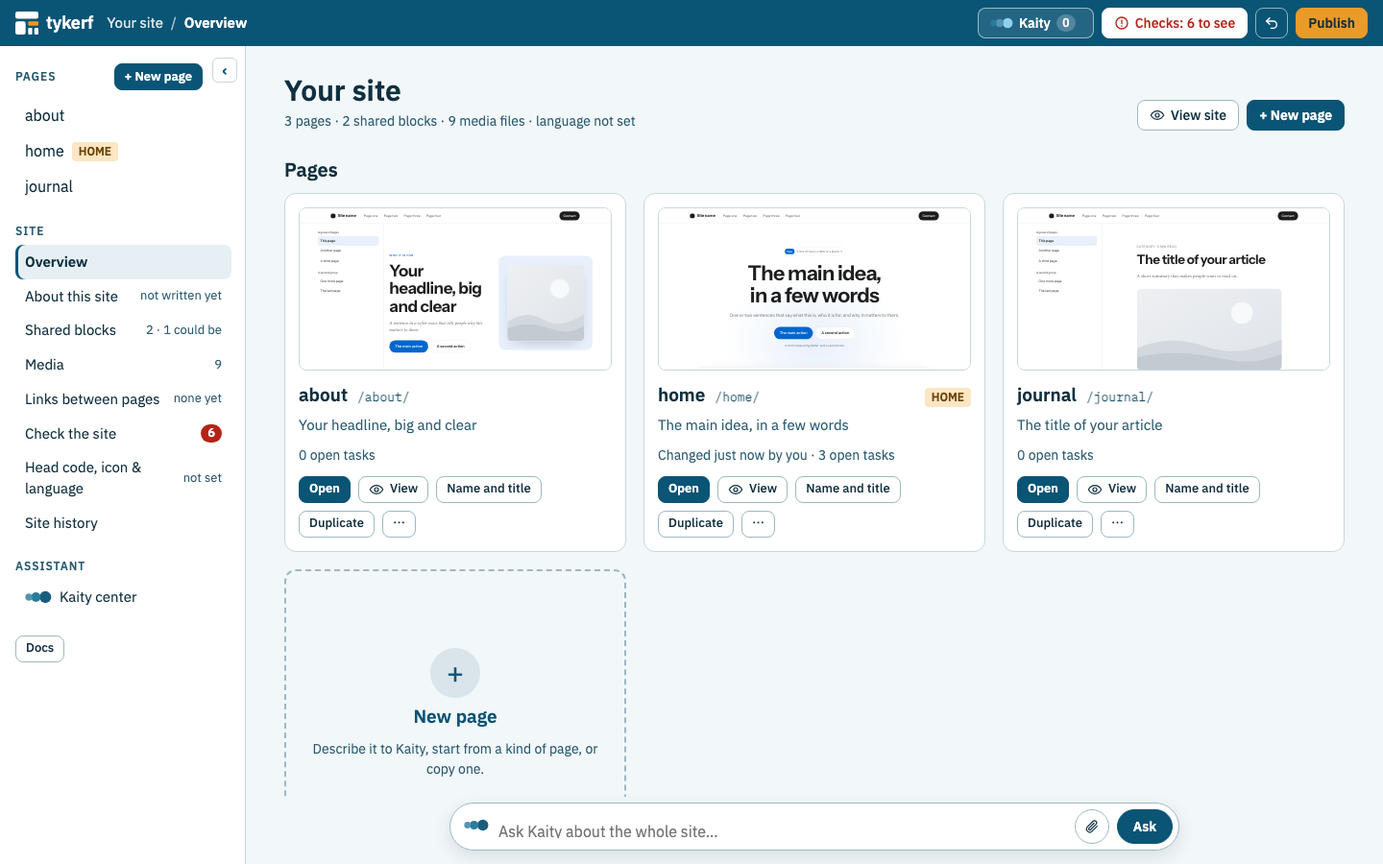
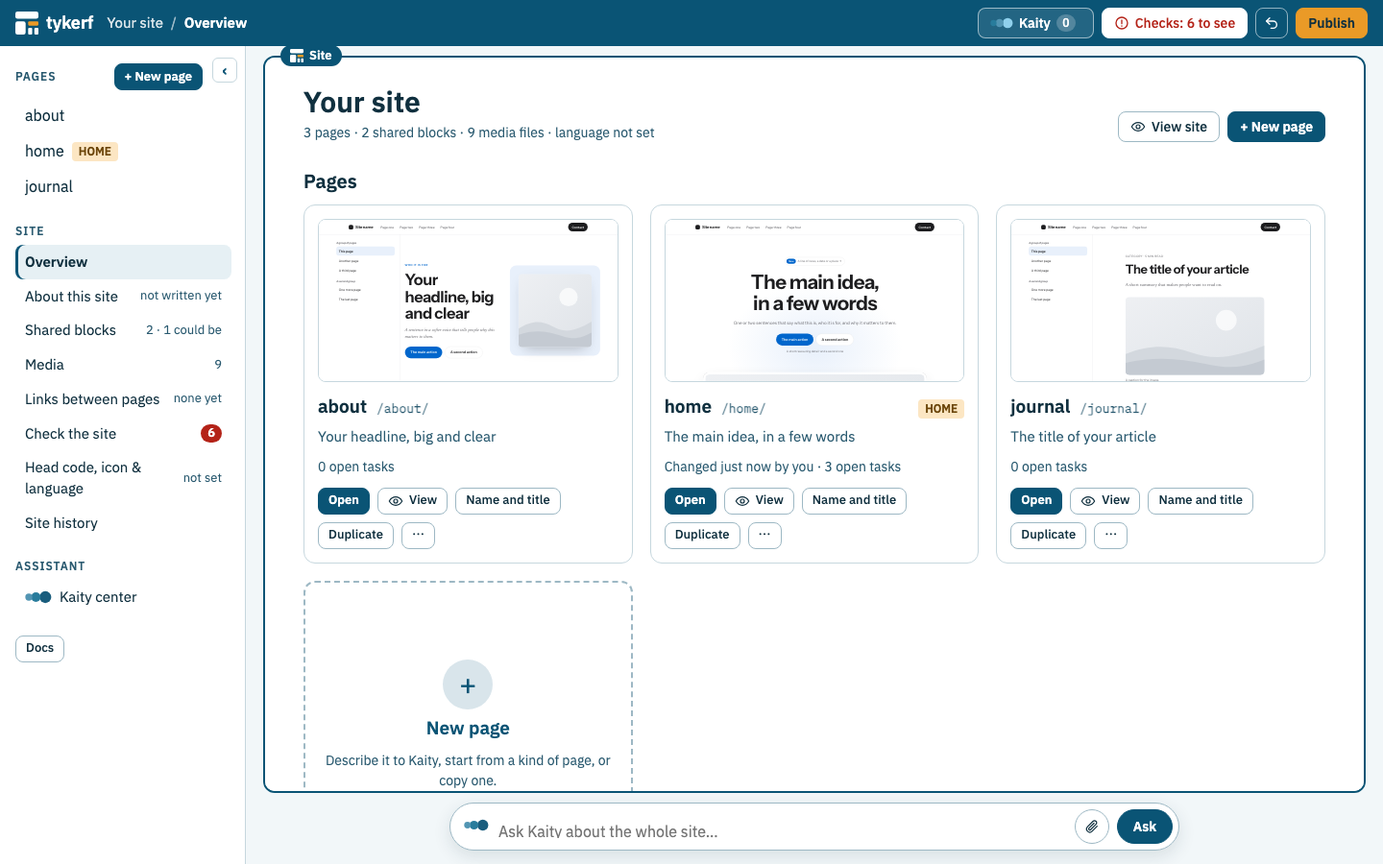
review, colour palette for modes

diff --git a/src/editor/public/shell/shell.css b/src/editor/public/shell/shell.css
@@ -13,7 +13,9 @@
   --line: #C6D7DE;
   --line-strong: #9DB8C4;
   --problem: #B42318;      /* problems, removing */
-  --task: #EA9A27;         /* tasks and Kaity: pins, numbers, the one main action */
+  --task: #EA9A27;         /* tasks and Kaity: pins, numbers, the one main action; Tasks mode */
+  --edit: #426CB2;         /* Edit mode */
+  --view: #27856B;         /* View mode (the site's screens are --bar's teal) */
   --task-ink: #10303F;     /* dark text on orange */
   --ask: #FFF6E6;          /* a suggestion that needs a decision */
   --ask-line: #EBC98F;
@@ -670,7 +672,7 @@ body.page-mode .work { grid-template-columns: auto minmax(0, 1fr); }
 .pvbox { position: relative; height: 560px; overflow: hidden; border: 1px solid var(--line-strong); border-radius: 10px; background: #fff; }
 .pvbox .pvframe { position: absolute; left: 0; top: 0; border: 0; transform-origin: 0 0; background: #fff; }
 .pvbox[data-w="375"] .pvframe, .pvbox[data-w="768"] .pvframe { left: 50%; translate: -50% 0; transform-origin: 50% 0; }
-.np-foot { position: sticky; bottom: 0; z-index: 4; display: flex; flex-wrap: wrap; align-items: center; justify-content: flex-end; gap: 10px; margin-top: 20px; padding: 12px 0; border-top: 1px solid var(--line); background: var(--ground); box-shadow: 0 -8px 16px -12px rgb(16 48 63 / .25); }
+.np-foot { position: sticky; bottom: 0; z-index: 4; display: flex; flex-wrap: wrap; align-items: center; justify-content: flex-end; gap: 10px; margin-top: 20px; padding: 12px 0; border-top: 1px solid var(--line); background: #fff; box-shadow: 0 -8px 16px -12px rgb(16 48 63 / .25); }
 .np-foot .note { flex: 1; margin: 0; }
 .np-card.wide { max-width: 720px; }
 .fullsize { position: fixed; inset: 0; z-index: 60; display: grid; grid-template-rows: auto minmax(0, 1fr); background: #fff; }
@@ -698,14 +700,17 @@ body.mode-view .work { grid-template-columns: minmax(0, 1fr); }
 .pstatus .actions { display: flex; flex-wrap: wrap; gap: 8px; margin-left: auto; }
 .pstatus .btn.on { background: var(--bar); border-color: var(--bar); color: #fff; }
 /* the three modes share one presentation: the page in its box, its border in the mode's colour, the mode's name on
-   the border (Tasks orange as the pins, Edit blue, View green); nothing else between the top bar and the page */
+   the border (one palette: the site's screens tykerf's teal, Tasks amber as the pins, Edit blue, View green); nothing
+   else between the top bar and the page */
 body.mode-tasks { --mode: var(--task); --mode-ink: var(--task-ink); }
-body.mode-edit { --mode: #1F6FD1; --mode-ink: #fff; }
-body.mode-view { --mode: var(--good); --mode-ink: #fff; }
+body.mode-edit { --mode: var(--edit); --mode-ink: #fff; }
+body.site-mode { --mode: var(--bar); --mode-ink: #fff; }
+body.mode-view { --mode: var(--view); --mode-ink: #fff; }
 body.page-mode .stage { border: 2px solid var(--mode); border-radius: 12px; }
 .modetag { z-index: 25; align-self: start; justify-self: start; display: inline-flex; align-items: center; gap: 10px; margin: -11px 0 0 18px; padding: 2px 10px; border-radius: 999px; background: var(--mode); color: var(--mode-ink); font-size: 13px; font-weight: 600; line-height: 18px; white-space: nowrap; pointer-events: none; }
 .modetag > span { display: inline-flex; align-items: center; gap: 6px; }
 .modetag svg { width: 14px; height: 14px; fill: none; stroke: currentColor; stroke-width: 2; stroke-linecap: round; stroke-linejoin: round; }
+.modetag svg.mark { stroke: none; }
 .modetag a { color: inherit; font-weight: 500; text-decoration: underline; text-underline-offset: 2px; pointer-events: auto; }
 .modetag a:focus-visible { outline: 3px solid var(--task); outline-offset: 2px; border-radius: 4px; }
 .ptasks { display: grid; gap: 6px; margin: 0 0 10px; padding: 0; list-style: none; }
@@ -897,14 +902,16 @@ body.dragging { cursor: move; user-select: none; }
 }
 
 /* ---------- the Kaity line: the one place to ask Kaity, at the bottom of every screen (kaityline.js) ---------- */
-.sitecol { display: grid; grid-template-rows: minmax(0, 1fr) auto; min-width: 0; min-height: 0; }
-.sitecol > .screen { min-height: 0; }
-.sitecol > .kline { margin: 6px 18px 14px; }
+/* the site's screens as the page is: in a box, its border in tykerf's teal with Site on it, the Kaity line under it */
+.sitecol { display: grid; grid-template-rows: minmax(0, 1fr) auto; gap: 10px; min-width: 0; min-height: 0; padding: 10px 18px 14px; }
+.sitecol > .screen, .sitecol > .modetag { grid-row: 1; grid-column: 1; }
+.sitecol > .screen { min-height: 0; border: 2px solid var(--mode); border-radius: 12px; background: #fff; }
+.sitecol > .kline { grid-row: 2; }
 .composer.line .cwait { flex: none; max-width: 40%; overflow: hidden; text-overflow: ellipsis; white-space: nowrap; padding: 3px 10px; border-radius: 999px; background: var(--ask); color: var(--warn); font-size: 13px; font-weight: 600; }
 /* what floats over the screen stops above the line */
 .kcenter { bottom: calc(var(--kline-h, 0px) + 8px); }
 @media (max-width: 900px) {
-  .sitecol { grid-template-rows: auto auto; }
+  .sitecol { grid-template-rows: auto auto; padding: 10px 12px; }
   .sitecol > .kline { position: sticky; bottom: 8px; z-index: 5; }
 }
 @media (max-width: 600px) {

diff --git a/src/editor/public/shell/site.js b/src/editor/public/shell/site.js
@@ -3,7 +3,7 @@
 // (screens.js), New page (newpage.js) and the Kaity center as a page (kaity.js). Under every screen, the Kaity line
 // (kaityline.js), on the whole site.
 
-import { $, failed, request, t, toast, watchVersion } from './common.js';
+import { $, MARK, esc, failed, request, t, toast, watchVersion } from './common.js';
 import { SCREEN_TITLES, checkState, createRail, renderTop } from './chrome.js';
 import { createKaityCenter, kaityScreen, onKaityNews } from './kaity.js';
 import { createKaityLine } from './kaityline.js';
@@ -18,7 +18,8 @@ export async function siteMode() {
   const screenOf = () => location.pathname.match(/^\/_tykerf\/edit\/_site\/([a-z-]*)/)?.[1] || 'overview';
   let screen = SCREENS[screenOf()] ? screenOf() : 'overview';
   document.body.classList.add('site-mode');
-  $('.stage').outerHTML = '<div class="work"><div class="sitecol"><main class="screen" tabindex="-1"></main></div></div>';
+  // the screen in its box, Site on its border (as a page's mode on the page's), the Kaity line under it
+  $('.stage').outerHTML = `<div class="work"><div class="sitecol"><main class="screen" tabindex="-1"></main><div class="modetag"><span>${MARK}${esc(t('Site'))}</span></div></div></div>`;
   const main = $('.screen');
   const bar = $('.bar');
   let history = null, pending = null, crumb = null;

diff --git a/test/shell-site.test.ts b/test/shell-site.test.ts
@@ -101,6 +101,9 @@ describe('the site in the v3 editor', () => {
     expect(await main.locator('.ocheck li > span:first-child').allTextContents()).toEqual(['Design check', 'About this site', 'Links between pages', 'Language', 'Other checks']);
     expect(await main.locator('.olately h2').textContent()).toBe('Kaity lately');
     expect(await main.locator('.olately .composer').count()).toBe(0);
+    // the screen in its box, tykerf's teal with Site on its border; the Kaity line under it, outside the box
+    expect(await page.locator('.sitecol > .screen').evaluate((s) => getComputedStyle(s).borderTopColor)).toBe('rgb(10, 84, 117)');
+    expect(await page.locator('.sitecol > .modetag').textContent()).toBe('Site');
     const line = page.locator('.sitecol > .kline');
     expect(await line.locator('textarea').getAttribute('placeholder')).toBe('Ask Kaity about the whole site…');
     expect(await line.locator('select').count()).toBe(0);

diff --git a/test/shell.test.ts b/test/shell.test.ts
@@ -261,7 +261,7 @@ describe('the v3 editor', () => {
     // the same frame and the same box, green, with View on its border; nothing beside the page or under it
     expect(await page.locator('.bar .modes [aria-current]').textContent()).toContain('View');
     expect(await page.locator('.modetag > span').textContent()).toBe('View');
-    expect(await page.locator('.stage').evaluate((s) => getComputedStyle(s).borderTopColor)).toBe('rgb(29, 107, 68)');
+    expect(await page.locator('.stage').evaluate((s) => getComputedStyle(s).borderTopColor)).toBe('rgb(39, 133, 107)');
     for (const gone of ['.rail', '.pagecol .composer', '.pstatus', '.bar [data-top="page"]', '.pin']) expect(await page.locator(gone).first().isHidden(), gone).toBe(true);
     // the page works as for a visitor: a click leaves no task box
     await frame().locator('[data-sw="hero"] h1').click();

diff --git a/test/tasks.test.ts b/test/tasks.test.ts
@@ -198,6 +198,7 @@ describe('tasks in the editor', () => {
     // nothing above the page but its box (blue, Edit on its border); no × of its own: the top bar's Tasks goes back
     expect(await fresh.locator('.pstatus').isHidden()).toBe(true);
     expect(await fresh.locator('.modetag').textContent()).toBe('Edit');
+    expect(await fresh.locator('.stage').evaluate((s) => getComputedStyle(s).borderTopColor)).toBe('rgb(66, 108, 178)'); // --edit
     expect(await fresh.locator('#tykerf-inspector .panel .closebtn').isHidden()).toBe(true);
     await fresh.locator('.bar .modes a', { hasText: 'Tasks' }).click();
     await fresh.waitForURL(/\/_tykerf\/edit\/home\/$/);

diff --git a/CLAUDE.md b/CLAUDE.md
@@ -73,7 +73,7 @@ The data flows one way: **postfix text → `Layout` tree → moves → render/ev
 - `src/editor/`: the editor.
   - `server.ts` routes: **the editor always serves a site** (a page of a site opens its site; a page folder in no site is refused). Each page is at `/<page>/` (a host per page, made on first use). For a signed-in person `/<page>/` redirects to **the editor's shell**, `/_tykerf/edit/<page>/` (`public/shell.html`), unless **the visitor's view** is on (the `tykerf_view` session cookie, `viewing`; `/_tykerf/view?page=&visitor=1`, View's *Open in a new tab*, turns it on, `/_tykerf/view/off?next=` off): then the page is served as visitors get it, with the pill (`shell/view.js`). `/_tykerf/view?page=` without `visitor=1` opens the shell's View mode. The page itself is served as it is with `?tykerf=frame` (the shell's frame, the Overview's thumbnails), and with the **full editor** (`tykerf.js`) for `?tykerf=full-frame` (the shell's Edit mode); `?tykerf=full` and the older `?block=`/`?edit` links redirect to that mode. `/` and the old manager address `/_tykerf/site/` open the site manager's **Overview** (`/_tykerf/edit/_site/`; its first run on a site with no pages, never a redirect to New page); visitors and View mode get the home page at `/`. Global endpoints: `/_tykerf/library` (purposes with their sections, frames, themes), `/_tykerf/preview/<layout>/<theme>/[?side=0]` (rendered in a `MemoryStore`, sandboxed), `/_tykerf/site`, `POST /_tykerf/site/new`, `/_tykerf/site/thread` and `/_tykerf/site/kaity/undo` (Kaity's one thread, below). TYKERF's own files (`shell/*`, `tykerf.js`, `inline.js`, fonts, i18n) are served at `/_tykerf/…` and under each page.
   - **The shell** (`public/shell.html`, `public/shell/`: plain ES modules) is the editor, **one frame on every screen** (`chrome.js`: the top bar, `renderTop`, with the breadcrumb, the page's modes in the centre, Kaity ▾, Checks, one Undo, one Publish; the left rail, `createRail`: on site screens the pages, the site's screens and the Kaity center; on a page the page's context and its sections, `sections.js` `createAccordion` (Tasks on this page, Kaity on this page, Blocks: every node, Fixing by hand, Site), the same accordion dropped from the top bar's *This page ▾* when the rail is folded to its icon strip; docked, folding, stacked under 900 px). **Nothing is docked on a page's right** (round 2): never add a right-hand panel; the page takes the rest of the width. Modes change the centre, never the frame: never draw a second Undo or Publish. `checkState` is the one check status (top bar, rail, Overview). **One Kaity:** **the Kaity line** (`kaityline.js`, `createKaityLine` over `composer.js`'s one-line composer: Attach for pictures, PDFs and a design ZIP, Enter to send) is the one place to ask her something new, at the bottom of every screen but View; **where you write is the context**: the site's screens ask about the whole site, a page (Tasks and Edit) *This page* or *Whole site*, and one box only from its task box (**Ask Kaity now**, beside **Add task**); never add a box scope or a second input elsewhere. It takes a request only while she is free (`/_tykerf/site/kaity/now`, `busyWords`); replies to one run (an answer, Keep/Undo, Widen, the shared-block OK) stay on that run in the thread; `kaity.js` is the thread (`/_tykerf/site/thread`, oldest first; each run's `outcome`: only a change gets ✓ and Undo; Needs review with Keep/Undo, her questions, the shared-block OK, Widen to this page), the Kaity center drawer and its page (`/_tykerf/edit/_site/kaity`): a list with its filter, no input. There is no separate review bar. **The site** (`site.js`): `overview.js` (the Overview: page cards with thumbnails, Before you publish, Kaity lately, the guides `DOCS`; the first run), `newpage.js` (New page: Describe it to Kaity with the brief it sends, From a kind of page with a live preview and Full size over the screen, Copy, Like a page), `screens.js` (the other screens; *Every open task* stays at `/_tykerf/edit/_site/tasks`). **A page** (`shell.js`, `frame.js`, `fix.js`): the page in a same-origin iframe (`frame.js` is the only code that touches its document; nothing is drawn inside it) at the room its column has or at 768/375 px scaled to fit (`layoutStage`, `S.zoom`); the status line above it (`renderStatus`: Kaity at work, what waits for the person, a page's job, fixing by hand); the page's sections in the rail (`SECTIONS`, `renderSections`); the composer under it; tasks (with up to 5 files each, `Task.images`) and Kaity working through them one at a time (`src/editor/task-run.ts`: a task closed with no change is `declined` and stays open), the tray while she works. Details: `docs/developer-guide/en/editor.md`.
-  - **A page's modes**, in the top bar: *Tasks* (`/_tykerf/edit/<page>/`), *Edit* (`?mode=full`: the frame loads the page with **the full editor**, `public/tykerf.js`, `?tykerf=full-frame`) and *View* (`?mode=view`: the page working as for a visitor in the passive frame; no rail, composer or overlay; a link to another page of the site opens it in View, `frame.js` `on.follow`). **The three modes share one presentation:** the page's box (`.stage`) with a border in the mode's colour (`--mode`: Tasks orange, Edit blue, View green) and the mode's name on it (`.modetag`); nothing else between the top bar and the page (the status line shows only while something goes on); the mode's hint (`.mhint`) the first time in each mode (`tykerf.hints`; never when `navigator.webdriver`) and from the **?** beside the modes. Never put a mode's instructions in a line above the page. In Edit mode **the v3 full editor, whole** (header with path, Dim/Blur, Compact; no × (the modes go back); tree; the block's actions and tabs: one box, nothing drawn on the block), **floats over the page in the shell's window** (outside the frame so the widths scale only the page; `RAILED`: the same-origin frame moves its panel element into a shadow root in the shell's `#tykerf-inspector`, inside `.ifloat`, with its CSS as a `<style>`; `:host(.railed)`; the shell drags it by its header and resizes it, remembered as `tykerf.editor`). Its Undo/Redo are hidden (the one Undo is the top bar's); the rail's Blocks is the same tree (`window.tykerfSelect` / `window.top.tykerfSelected` keep them in step); the widths work as in Tasks. The shell's frame is passive there (no picking, no pins). It has no Kaity tab: Kaity is asked with tasks and the Kaity line. A page always opens in Tasks. Opened at the top level, `?tykerf=full-frame` is the full editor on its own, floating, with its own header (its tests use it). `/pages/` = `siteIndex`, `/sitemap.xml` = `siteMap`. *Head code* edits `siteCode`/`setSiteCode`: the site head without its theme and fonts blocks (`KEPT`), which it never changes; it refuses a new `<style>` (styles are the kit's), and `migrateHeadStyles` moves an older site's to `kit/styles/head.css`.
+  - **A page's modes**, in the top bar: *Tasks* (`/_tykerf/edit/<page>/`), *Edit* (`?mode=full`: the frame loads the page with **the full editor**, `public/tykerf.js`, `?tykerf=full-frame`) and *View* (`?mode=view`: the page working as for a visitor in the passive frame; no rail, composer or overlay; a link to another page of the site opens it in View, `frame.js` `on.follow`). **The three modes share one presentation:** the page's box (`.stage`) with a border in the mode's colour (`--mode`: Tasks `--task` amber, Edit `--edit` `#426CB2`, View `--view` `#27856B`; the site's screens are in the same box in tykerf's teal, *Site* on it; never red, which is for problems and deleting) and the mode's name on it (`.modetag`); nothing else between the top bar and the page (the status line shows only while something goes on); the mode's hint (`.mhint`) the first time in each mode (`tykerf.hints`; never when `navigator.webdriver`) and from the **?** beside the modes. Never put a mode's instructions in a line above the page. In Edit mode **the v3 full editor, whole** (header with path, Dim/Blur, Compact; no × (the modes go back); tree; the block's actions and tabs: one box, nothing drawn on the block), **floats over the page in the shell's window** (outside the frame so the widths scale only the page; `RAILED`: the same-origin frame moves its panel element into a shadow root in the shell's `#tykerf-inspector`, inside `.ifloat`, with its CSS as a `<style>`; `:host(.railed)`; the shell drags it by its header and resizes it, remembered as `tykerf.editor`). Its Undo/Redo are hidden (the one Undo is the top bar's); the rail's Blocks is the same tree (`window.tykerfSelect` / `window.top.tykerfSelected` keep them in step); the widths work as in Tasks. The shell's frame is passive there (no picking, no pins). It has no Kaity tab: Kaity is asked with tasks and the Kaity line. A page always opens in Tasks. Opened at the top level, `?tykerf=full-frame` is the full editor on its own, floating, with its own header (its tests use it). `/pages/` = `siteIndex`, `/sitemap.xml` = `siteMap`. *Head code* edits `siteCode`/`setSiteCode`: the site head without its theme and fonts blocks (`KEPT`), which it never changes; it refuses a new `<style>` (styles are the kit's), and `migrateHeadStyles` moves an older site's to `kit/styles/head.css`.
   - **Kaity for the whole site:** `siteAI` in server.ts is an `AI` with `{ site: dir }` (one `SITE_CHAT` conversation, `siteSystem()`, no block lock or leftovers check); its runs pass `RunRequest.home`, so the MCP tools include `list_pages`/`open_page`/`new_page`/`rename_page`/`remove_page` and no scope. Page runs and the site run refuse each other (409); runs on different pages go on together. Moves made from another process land in `.tykerf/moves.jsonl`, which `followMoves()` turns into `PageHost.close` for the moved page. Every run is logged at the site (`kaity-log.ts`, `.tykerf/kaity.jsonl`: scope, tag, files, origin), which is the **one thread** (`GET /_tykerf/site/thread`); every run's changes carry a tag (a task's, or `run-<id>` through `RunRequest.mark`/`--mark`), so `POST /_tykerf/site/kaity/undo` takes one run back with `revertTagged`. Files attached to any request go through `editor/attachments.ts` (`readAttachments`: pictures, PDFs sent as documents, a design ZIP as context). *This page* asks on the page's top block (`POST /_tykerf/ask` `scope: 'page'`). Kaity's instructions name only controls that exist (`CONTROLS`).
   - **Serving to visitors** (`auth.ts`): with `TYKERF_ADMIN_PASSWORD`, `visitorMay()` in server.ts lets visitors load pages (no editor script: `createPageHost`'s `admin`; instead `visitorEnd` = `EDIT_BUTTON`, shown only where the browser's `tykerf.admin` says it signed in before), assets, `/`, `/pages/`, the sitemap, sign-in and its fonts; everything else needs the session cookie. Sessions are token hashes in the site's `.tykerf/sessions.json` (restarts keep them; a new password ends them). Keep every new editor address under `/_tykerf/`, so it stays closed to visitors.
   - **What acts on the whole site or on TYKERF itself is the shell's site screens:** export on *Publish* (`/_tykerf/export.zip`, `?page=<name>`, `?links=files`, `?kit=inline`), Kaity's status on *Head code, icon & language* (`/_tykerf/ai/status`, `POST /_tykerf/ai/test` → `Runner.status()`/`check()`), the Kaity center. A page's own theme and head stay in the full editor's Page tab.

diff --git a/docs/developer-guide/en/editor.md b/docs/developer-guide/en/editor.md
@@ -131,13 +131,14 @@ The editor people use is one **shell**: `public/shell.html`, at `/_tykerf/edit/<
 - **The rail** (`createRail`), on the site's screens (256 px): *Pages* with **+ New page**; *Site* (Overview, About this site, Shared blocks, Media, Links between pages, Check the site, Head code, icon & language, Site history, each with its state, `screenStates`); *Assistant* (Kaity center); Docs and Sign out (`siteHTML`). On a page (`page`, 280 px) it is the page's context: *← Site*, the page's name, Home and address, then `accordion` (sections.js), whose *Site* section holds `siteHTML`. It is docked, folds with its own control (remembered as `tykerf.railFolded`): on a page to a strip of icons (unfold, the tasks and Kaity with badges, the blocks, back to the site; `onStrip` drops the sections from the top bar), and under 900 px stacks above the content, folded until opened.
 
 **The site** (`site.js`): the rail and a screen beside it; `go(screen)` changes screens without a reload (`pushState`), the top bar's Checks and Publish too. The site's event stream (`onKaityNews`) refreshes the rail and the Overview when Kaity starts or ends anywhere.
+- **The site's screens are in a box too** (`site.js`: `.sitecol` holds the screen, its `.modetag` *Site* and the Kaity line under it), its border in tykerf's teal (`body.site-mode`'s `--mode`), white inside.
 - **The Overview** (`overview.js`, the default screen): the counts, **View site** and **+ New page**; a card per page (a thumbnail: the page at `?tykerf=frame` in a scaled `iframe sandbox="allow-same-origin"`, `loading=lazy`, laid out at 1440 px and scaled to the card, `fitThumbs`; name, address, Home, title, who changed it last and when, open tasks, Kaity's runs waiting for review there; *Open*, *View*, *Name and title*, *Duplicate*, and ⋯, a menu (`role=menu`: arrow keys, Escape or a click elsewhere close it) with *Make it home* and *Remove…*, whose question, in the same pop-up, says which pages' links to it will point nowhere), and a New page card; **Before you publish** (the design check, About this site, links between pages, the language, the other checks, each with what to do and a tone: green only for what is done, neutral for *not … yet*, the warning colour for *out of date* and *not set*); **Kaity lately** (her last three runs, newest first); **Learn tykerf** (`DOC_LINKS`, the guides on GitHub, `DOCS`). A site with no pages shows the **first run** instead: what tykerf is in three steps, the Documentation card (`DOC_CARD`) and *Create your first page* with its three starts (`/_tykerf/edit/_site/new?start=describe|kind|copy`).
 - **New page** (`newpage.js`) is in the same frame; the rail shows the page as *being set up* (`setPending`), **Cancel** goes back where the person came from (`?from=`). Its tabs: *Describe it to Kaity* (five questions, each optional: the kind of page (`draft.kind`, none at first, the same choice as the next tab's *What the page is*), who it is for, the sections, suggested from the purpose's own boxes by `/_tykerf/library` and named by `SECTION_WORDS`, with *Add another*; the tone; anything else, with the composers' **Attach** for pictures, PDFs or a design ZIP; *What Kaity will get* shows the brief `assemble` makes, editable, and it is exactly the `prompt` sent), *From a kind of page* (what the page is, what holds it as small drawings, the side menu and the shared navigation, theme cards with *Site theme* first when the site has one and a warning (the warning style, not an error) for another, beside a live preview, `/_tykerf/preview/<layout>/<theme>/?side=0|1`, at Desktop, Tablet or Phone width, with **Full size** over the screen and *← Back to choices*, never a new tab; **Create … and open it**, or **Then ask Kaity to fill it**, in a bar fixed to the bottom of the screen, which opens the page with `?ask=page`: the Kaity line on the whole page), *Copy a web page* and *Like a page of this site*. What is chosen survives going to another screen and back (`draft`).
 - **The Kaity center** (`kaity.js`): a drawer from the top bar's Kaity button (or the rail) on every screen, and the same at `/_tykerf/edit/_site/kaity` (*Open as page*). Its filters: *Everything*, *Whole site*, each page, *Tasks* (every open task of the site, page by page, with **Give Kaity everything**: the old *Every open task* screen, still at `/_tykerf/edit/_site/tasks`). It is a list, with no input: the Kaity line under the screen is where a request is written, so its filter is never a second choice of what she may change. The thread runs from the oldest to the newest and opens scrolled to the newest, with a heading for each day. A run asked for in words shows the person's message (folded past 600 characters: *Pasted text · N characters · Show all*; its files as chips) and her answer (her steps, how it came out, what to do); a task run, finishing what a run left, or going on after a stop, shows as one compact line. Each run says how it came out (`outcome`, from the server's `outcome`: only *changed* gets ✓ and Undo) and offers what fits (`itemActions`): **Keep** and **Undo** for a change waiting for review, **Undo**, **Change it on the N pages** for a shared block she asks about, **Widen to this page** for a box-scope request she couldn't do; her question on a task has an answer field (`itemNeeds`). **Undo** takes a run back (`/_tykerf/site/kaity/undo`; a task of a run in review through the task run), **Keep** keeps one (`/_tykerf/site/kaity/keep`); a run going on has **Stop Kaity** and its latest step. Opened from a page (`createKaityCenter({ page })`, `?from=<page>` for the screen), it starts on that page's filter. Times are `stamp`: relative under a day, a date beyond, the exact time on hover.
 
 **A page** (`shell.js`): the rail with the page's sections and the page column (the status line, the page in its frame, the Kaity line), which takes the rest of the width: nothing is docked on the page's right (at 1440 px the page has at least 1080). *Tasks · Edit · View* in the top bar's centre, the **?** (`data-top="help"`), then the widths, in every mode.
 
-- **One presentation for the three modes** (`MODE`, `body.mode-<mode>`, `--mode` / `--mode-ink`): the page's box (`.stage`) has a 2 px border in the mode's colour (Tasks `--task`, Edit blue, View `--good`), and `.modetag` sits on its border with the mode's name (in the same grid cell as the stage, so the stage's `overflow: hidden` never clips it; the page column's rows are named in CSS for that). Nothing else is between the top bar and the page: the status line is hidden while it has nothing to say. **The mode's hint** (`.mhint`, `HINTS`): under the current mode's button, shown by itself the first time in each mode (`tykerf.hints` in this browser; never in a browser a program drives, `navigator.webdriver`, so tests and screenshots don't get it) and again from the **?**; **Got it**, the **?** or Escape put it away.
+- **One presentation for the three modes** (`MODE`, `body.mode-<mode>`, `--mode` / `--mode-ink`): the page's box (`.stage`) has a 2 px border in the mode's colour (one palette with tykerf's teal: Tasks `--task` `#EA9A27`, Edit `--edit` `#426CB2`, View `--view` `#27856B`; red stays for problems and deleting, BRAND.md), and `.modetag` sits on its border with the mode's name (in the same grid cell as the stage, so the stage's `overflow: hidden` never clips it; the page column's rows are named in CSS for that). Nothing else is between the top bar and the page: the status line is hidden while it has nothing to say. **The mode's hint** (`.mhint`, `HINTS`): under the current mode's button, shown by itself the first time in each mode (`tykerf.hints` in this browser; never in a browser a program drives, `navigator.webdriver`, so tests and screenshots don't get it) and again from the **?**; **Got it**, the **?** or Escape put it away.
 - **The page is in a frame**, at its own address with `?tykerf=frame`: `page.ts` serves it as it is, without `tykerf.js`. At *Desktop* it lays out at the room its column has; at 768 or 375 px it lays out at that width, in the middle, and is shown smaller when the column is narrower (`layoutStage`: `.viewport` scaled, `S.zoom`; what tykerf draws over it scales with it, labels and the task box drawn back at their own size). `frame.js` is the only code that touches the page's document (same origin), wired once per document as soon as it is parsed (`attachOnce`, `watchNew`; the load event, after pictures and fonts, is only the fallback): it turns clicks into picks (links, buttons and forms don't react), finds the block and the element path (`inline.js`), measures elements (`rect`: a box with no box of its own is measured by its children), and swaps new content in place after a change (`/_tykerf/page`). A change to the head reloads the frame.
 - **Nothing is drawn inside the page.** Outlines, pins, the flash of a block shown (`flash`, found again by its block if the content was swapped) and the task box are in the shell's own document, in `.overlay` over the frame, placed from the elements' boxes and redrawn on scroll, resize and content changes.
 - **The status line** (`renderStatus`, above the page): only what is going on, with its actions (hidden otherwise, in every mode): Kaity working through tasks (*task i of n* with a chip for the task, **Stop Kaity**, **Undo all she did**, *Show / Hide the steps*), what of a finished run waits for the person (*Kaity is done: n things wait for you in Kaity on this page*, **Review** opens that section; never "stopped" for a run that finished), a page being made (the job: its latest step, **Stop Kaity** / *Stop the copy*, **Got it**, **Continue**), Kaity on something asked from the Kaity line or a task box (`S.asking`, from the page's `ai` events: **Stop Kaity**), fixing by hand (**Done, back to tasks**), trying the page (**Done trying**), and the tray open on the tasks (its count, to close it). The tray opens from *See them all* in Tasks on this page, a task there, or a pin.

diff --git a/CHANGELOG.md b/CHANGELOG.md
@@ -13,7 +13,7 @@
 - **Nothing docked on the page's right.** Everything about a page is in the side panel on the left, as sections that open and close: Tasks on this page, Kaity on this page, Blocks (now every block, the containers too, each folding, as the editor's path has them) and Site. Folded, the panel is a strip of icons and the page takes the whole width; **This page ▾** in the top bar drops the same sections. Which sections you leave open, and the fold, are remembered.
 - **One place to ask Kaity: the Kaity line**, at the bottom of every screen (the site's screens, and a page in Tasks and in Edit). Where you write says what she may change: on the site's screens the whole site; on a page *This page* or *Whole site*. One box is asked from its task box: **Ask Kaity now**, beside **Add task**. The Kaity center and the Overview's *Kaity lately* are lists now, with no box of their own, so a filter can no longer disagree with what you ask. While Kaity works on anything, the line says on what and waits until she is free.
 - **The task box and the full editor wear tykerf's blue.** Their headers are the top bar's blue, with tykerf's mark, so they never read as a part of the page you are editing.
-- **Tasks, Edit and View look the same.** The page sits in one box, its border in the mode's colour with the mode's name on it: Tasks orange, Edit blue, View green. Nothing else stands between the top bar and the page: the line above it appears only while something is going on, and Edit's way back to Tasks and the editor's × are gone (the top bar's modes do that). The first time you open each mode, a short note under its button says what you do there; **?** beside the modes shows it again.
+- **Tasks, Edit and View look the same.** The page sits in one box, its border in the mode's colour with the mode's name on it: Tasks amber, Edit blue, View green (one palette with tykerf's teal); the site manager's screens are in the same box, in tykerf's teal, with *Site* on it, and the Kaity line sits under the box on every screen. Nothing else stands between the top bar and the page: the line above it appears only while something is going on, and Edit's way back to Tasks and the editor's × are gone (the top bar's modes do that). The first time you open each mode, a short note under its button says what you do there; **?** beside the modes shows it again.
 - **View stays in the editor:** the page works as for a visitor in the same box, at any width, and a link to another page of the site opens that page in View. **Open in a new tab** shows the page on its own, with the small pill, as before.
 - **Edit mode:** the full editor floats over the page as one box, as before: its tree, the selected block's actions and its Text, Code and Size & look tabs. Drag it by its header, resize it, compact it; where it is is remembered. It stays full size when the page is shown at a tablet's or a phone's width, so those widths are in the top bar in Edit mode too. The side panel's Blocks shows the same tree.
 - **One place to ask Kaity at a time.** The box under the page is one line, with what she may change as a drop-down; picking a block aims it there (*This box: hero*). The task box only adds tasks, and the box hides while the Kaity center is open.

diff --git a/docs/user-guide/en/editor.md b/docs/user-guide/en/editor.md
@@ -13,7 +13,7 @@ Open a page from the site manager's **Overview** (by default http://localhost:44
 ## The frame
 
 - **The top bar**, on every screen: *Your site / <the page>* (a click on *Your site* goes back to the Overview); in the middle, **Tasks · Edit · View**, **?** (what you do in that mode) and the page's width; then **This page ▾** with how many tasks it has, **Kaity** (it opens [the Kaity center](ai.md#the-kaity-center); its count is what waits for you, when something does, else how many things she did), **Checks** (how many things the site's check found, *all good*, *not checked yet* or *out of date*), one **Undo** (point at it to see which step it takes back) and one **Publish**.
-- **The three modes look the same:** the page sits in one box, its border in the mode's colour, with the mode's name on it: **Tasks** orange, **Edit** blue, **View** green. Nothing else stands between the top bar and the page. The first time you open each mode, a short note under its button says what you do there; **Got it** puts it away for good, and **?** shows it again.
+- **The three modes look the same:** the page sits in one box, its border in the mode's colour, with the mode's name on it: **Tasks** amber, **Edit** blue, **View** green (the site manager's screens are in the same kind of box, in tykerf's teal, with *Site* on it). Nothing else stands between the top bar and the page. The first time you open each mode, a short note under its button says what you do there; **Got it** puts it away for good, and **?** shows it again.
 - **The page's width:** **Desktop** (the room the page has), **768** (a tablet held upright) or **375** (a phone), in all three modes. The page lays out again at that width, shown smaller when it doesn't fit, and a task you write then remembers it. Escape goes back to Desktop.
 - **The side panel on the left** is the page's: **← Site** (back to the Overview), the page's name, *Home* when it is the home page, and its address; then its sections, each opening and closing with a click: **Tasks on this page** (its open tasks, with **Give them to Kaity** and **Do it myself**), **Kaity on this page** (what she did here, newest at the bottom; see [what waits for you](#what-waits-for-you)), **Blocks** (every block of the page, the containers too, each folding; a click shows the block and aims the box under the page at it) and **Site** (the site's pages with **+ New page**, its screens, the Kaity center, the docs). TYKERF remembers which sections you leave open, and whether the panel is folded.
 - **Folded** (the button at its top right), the panel is a narrow strip of icons: open it again, the tasks (with their count), Kaity, the blocks, and back to the site. The page then takes the whole width, and **This page ▾** in the top bar drops the same sections; **Pin to the side panel** opens the panel again. With the panel open, **This page** goes to its Tasks section. On a phone the panel sits above the page, folded.

diff --git a/BRAND.md b/BRAND.md
@@ -56,8 +56,10 @@ The palette is Tydal teal + amber. Amber `#EA9A27` is mycolor.space's match for 
 | Amber | `#EA9A27` | Focus: the selected block, its frame on the page, cell 4 of the mark |
 | Cream | `#F3F0E8` | Ground for brand pages (Tydal) |
 | Ink | `#10303F` | Body text on light grounds |
+| Edit blue | `#426CB2` | The editor's Edit mode: the page's border and its label |
+| View green | `#27856B` | The editor's View mode: the page's border and its label |
 
-In the editor the palette is CSS variables in `src/editor/public/tykerf.css` (`--teal`, `--amber`, `--brand`, `--focus`, `--focus-under`), so the accent changes in one place.
+In the editor the palette is CSS variables in `src/editor/public/tykerf.css` (`--teal`, `--amber`, `--brand`, `--focus`, `--focus-under`), so the accent changes in one place. The editor's areas each have one colour of the palette, on the border of the box that holds the work: the site's screens teal, Tasks amber, Edit blue, View green (`--bar`, `--task`, `--edit`, `--view` in `src/editor/public/shell/shell.css`).
 
 Contrast:
 - Teal is strong on white (8.3:1), so it carries text and buttons.
